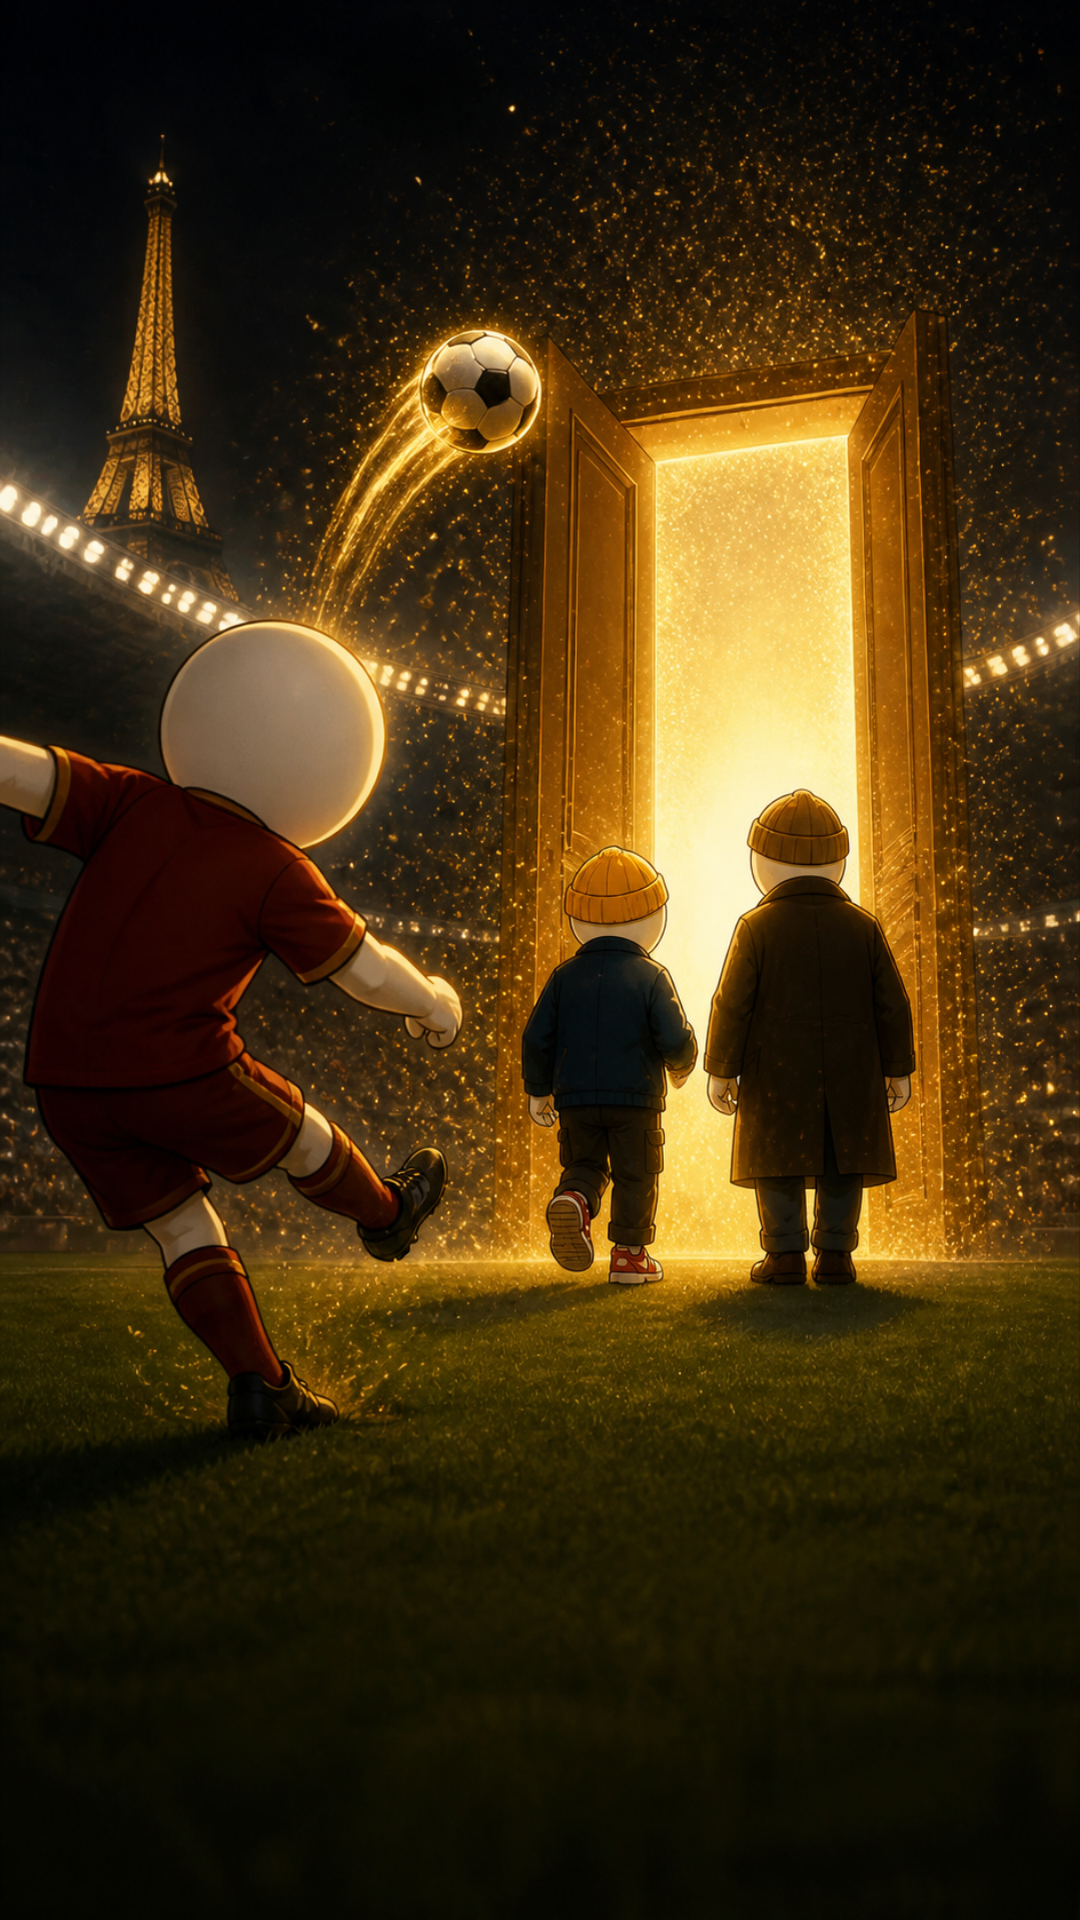
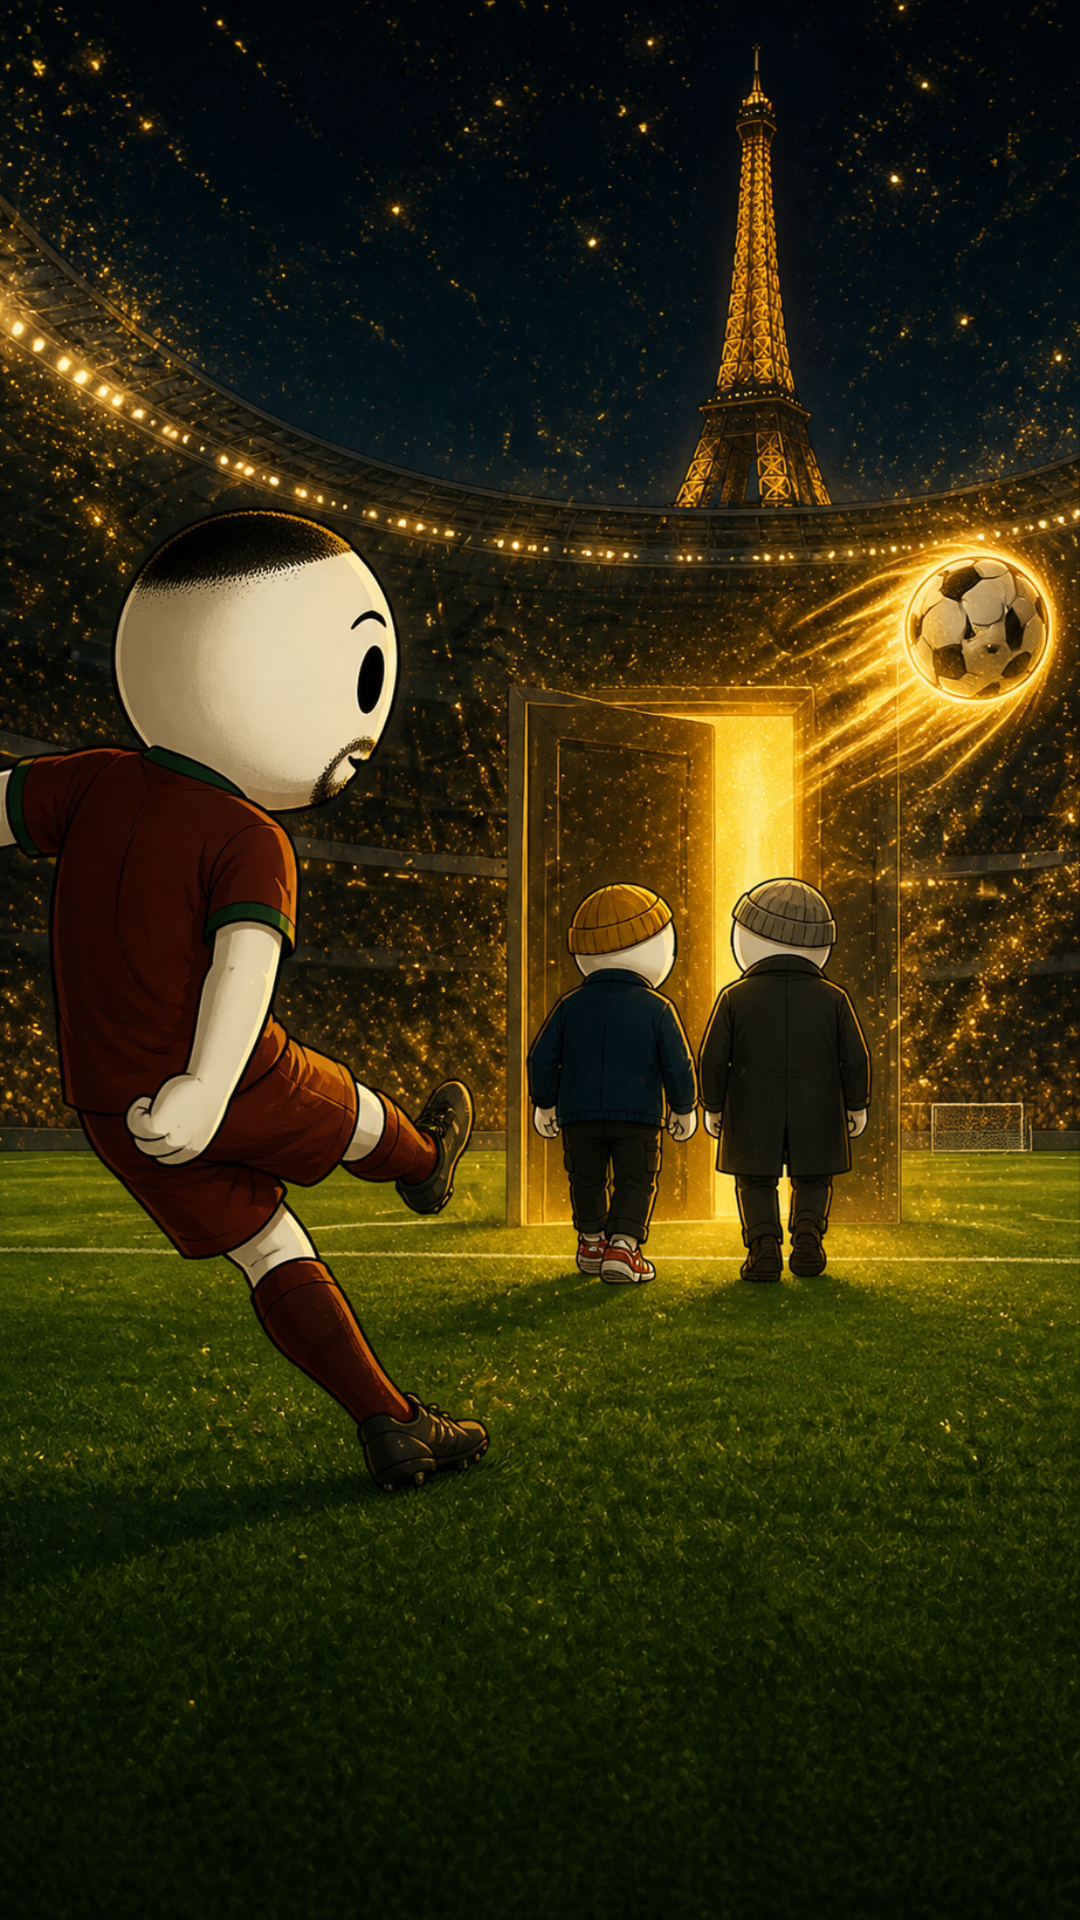
Bölüm 19: s09 Éder gerçek görünümüyle
Claude-Session: https://claude.ai/code/session_014JxJGDekTQeiZJynemFY6T

diff --git a/public/episodes/bolum19-iki-selim/senaryo.md b/public/episodes/bolum19-iki-selim/senaryo.md
@@ -28,4 +28,4 @@ Kurallar: bahis yok, siyaset/kulüp rekabeti yok, telefon/baba yok (son sahne ö
 KREDİ: ElevenLabs 1290 kredi → seslendirme metni ≤1200 karakter (etiketler dahil). Ronaldo teknik direktör sahnesi çıkarıldı.
 
 ## Görseller (DAHbKwFlLj4 sayfa 54–62)
-s01 MAHbcTgJMUU · s02 MAHbcU8RYsA · s03 MAHbcdGpb0I · s04 MAHbcZ7YzlA · s05 MAHbcar5VYo · s06 MAHbcVfLa50 (logo yerelde boyandı) · s07 MAHbcVHsrGw · s08 MAHbcTE9UoE · s09 MAHbcdxEimw
+s01 MAHbcTgJMUU · s02 MAHbcU8RYsA · s03 MAHbcdGpb0I · s04 MAHbcZ7YzlA · s05 MAHbcar5VYo · s06 MAHbcVfLa50 (logo yerelde boyandı) · s07 MAHbcVHsrGw · s08 MAHbcTE9UoE · s09 MAHbcWh-PCI (Éder saçlı)
